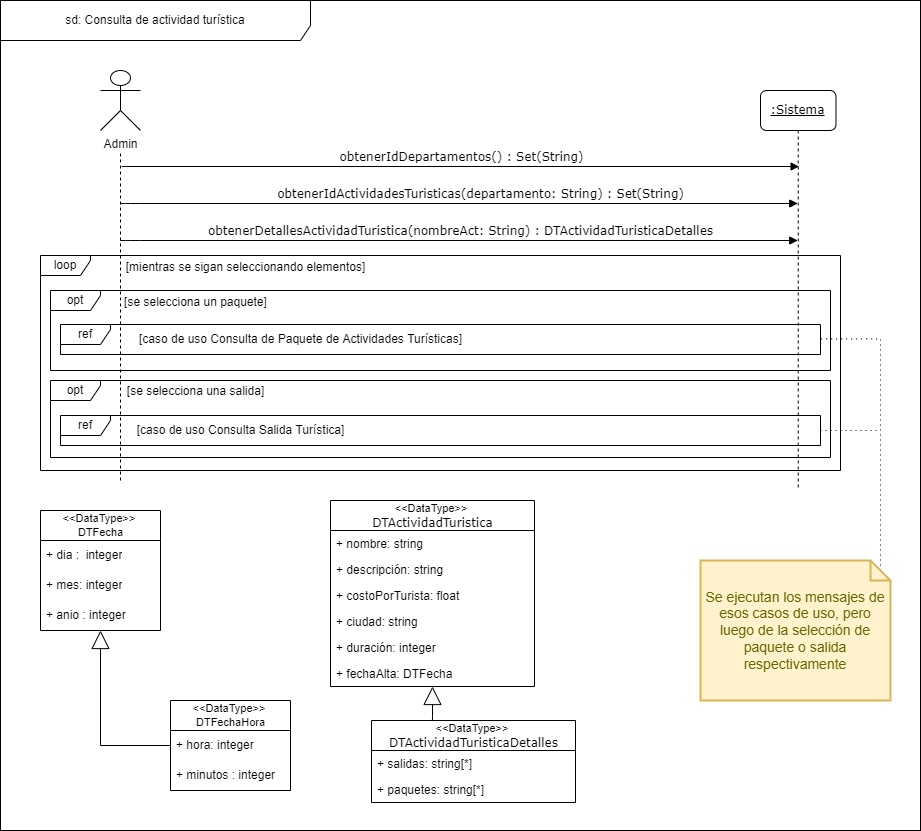
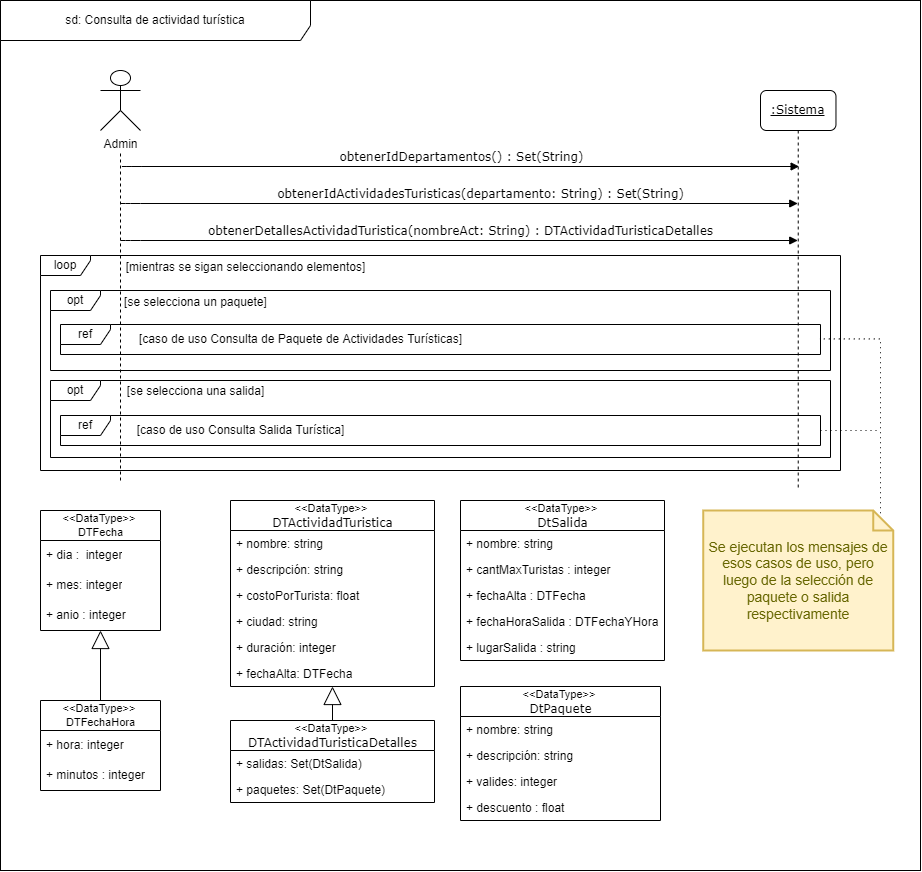
Correciones con los DTs

diff --git a/Implementacion/Servidor Central/src/logica/datatypes/DTPaquete.java b/Implementacion/Servidor Central/src/logica/datatypes/DTPaquete.java
@@ -13,7 +13,7 @@ public class DTPaquete extends DTActividadTuristica {
     private int validez;
     private float descuento;
 
-    private Map<String, DTActividadTuristica> actividades;
+    private Map<String, DTActividadTuristica> actividades; //Todo discutir este atributo aca
 
     public DTPaquete(String nombre, String descrpicion, int validez, float descuento) {
         this.nombre = nombre;
